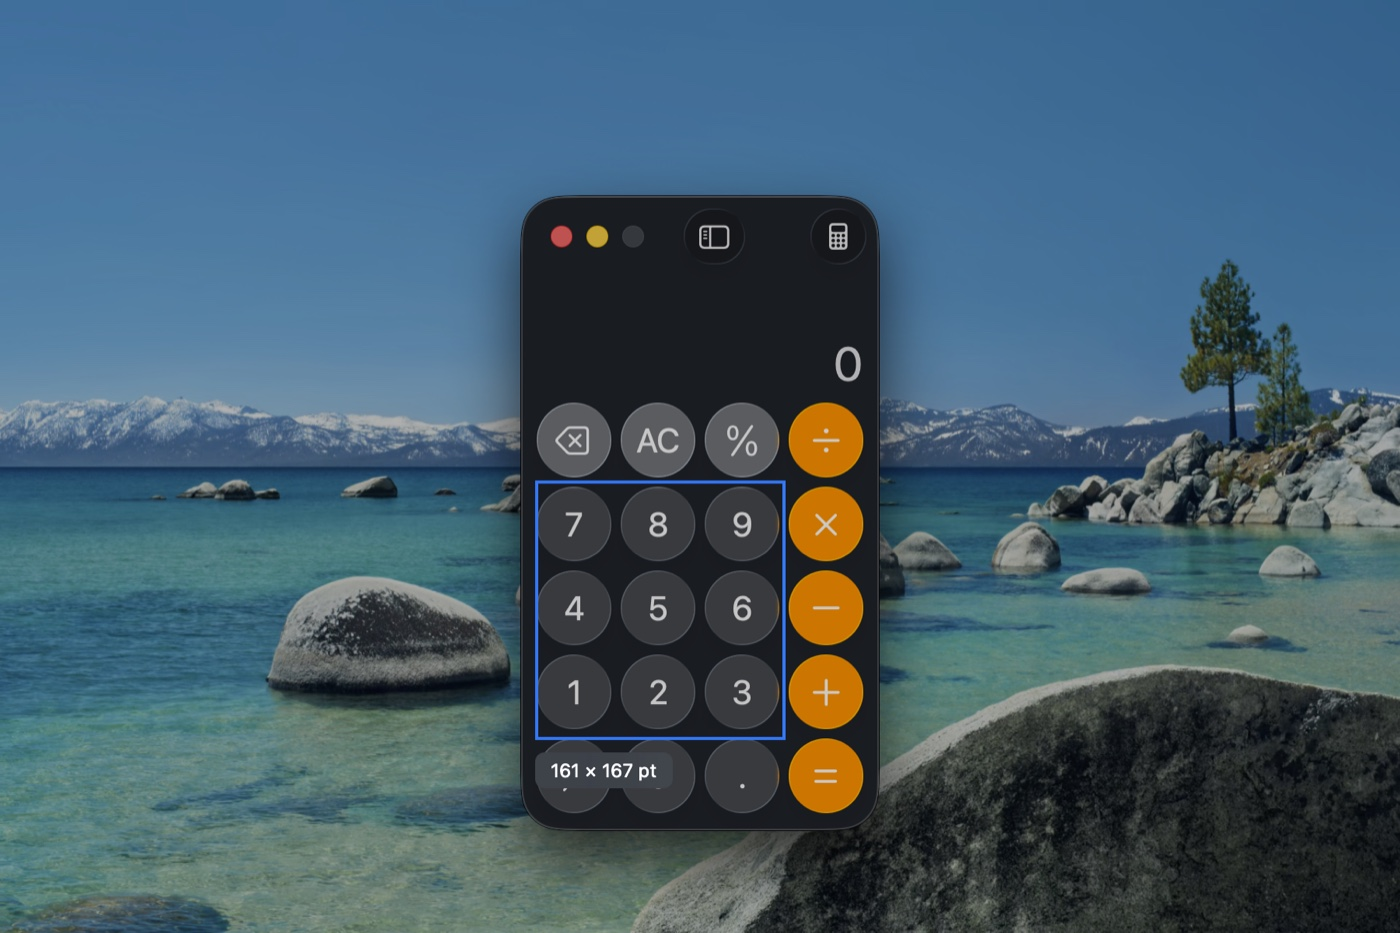
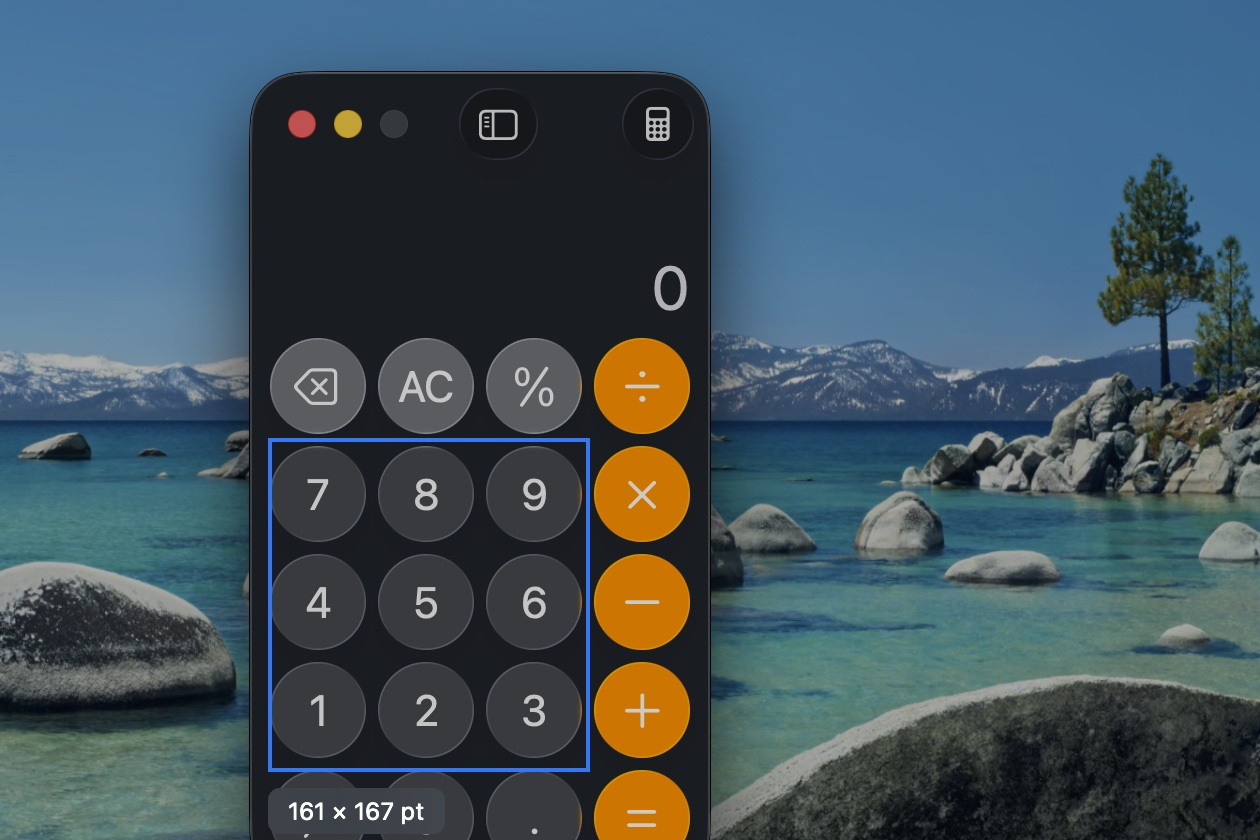
site: overlay frames cropped tighter; brand doc lists the captured assets

diff --git a/site/index.html b/site/index.html
@@ -452,19 +452,19 @@
     </div>
     <div class="frames">
       <div class="frame">
-        <div class="pic"><img src="assets/overlay-hover.jpg" width="1400" height="933" alt="The overlay over Calculator: the 8 key outlined in blue, with the label button · Eight beneath it"></div>
+        <div class="pic"><img src="assets/overlay-hover.jpg" width="1260" height="840" alt="The overlay over Calculator: the 8 key outlined in blue, with the label button · Eight beneath it"></div>
         <h3>Hover</h3><p>The element under the cursor and its identifier: <code>button · Eight</code>.</p>
       </div>
       <div class="frame">
-        <div class="pic"><img src="assets/overlay-option.jpg" width="1400" height="933" alt="With Option held, the whole keypad is outlined and the label reads group · CalculatorKeypadView"></div>
+        <div class="pic"><img src="assets/overlay-option.jpg" width="1260" height="840" alt="With Option held, the whole keypad is outlined and the label reads group · CalculatorKeypadView"></div>
         <h3>Option</h3><p>Steps to the parent: <code>group · CalculatorKeypadView</code>. Again for the next level.</p>
       </div>
       <div class="frame">
-        <div class="pic"><img src="assets/overlay-drag.jpg" width="1400" height="933" alt="A dragged frame around the number keys with a 161 by 167 point readout"></div>
+        <div class="pic"><img src="assets/overlay-drag.jpg" width="1260" height="840" alt="A dragged frame around the number keys with a 161 by 167 point readout"></div>
         <h3>Drag</h3><p>A frame, with every element inside it listed for the agent.</p>
       </div>
       <div class="frame">
-        <div class="pic"><img src="assets/overlay-note.jpg" width="1400" height="933" alt="After the click, a note field under the highlighted key reads make this key bigger, with Return to copy and Escape to cancel"></div>
+        <div class="pic"><img src="assets/overlay-note.jpg" width="1260" height="840" alt="After the click, a note field under the highlighted key reads make this key bigger, with Return to copy and Escape to cancel"></div>
         <h3>Note</h3><p>Click, say what should change, Return. Esc cancels, nothing written.</p>
       </div>
     </div>

diff --git a/docs/brand.md b/docs/brand.md
@@ -54,9 +54,10 @@ tracking. Scale: 60 / 40 / 21 / 17 / 15 / 13. Body 17 px at 1.5 line height in a
 cards; a card is used only where items repeat as a set (the four actions). Numbers appear only where the content is
 a real sequence: the three steps and the five rungs of the fallback ladder.
 
-**Illustrations.** The overlay moment is drawn in CSS from the app's tokens (`dim`, `highlight.stroke`, `label.bg`),
-not screenshotted, so it stays legible at any size and in both themes. The Settings window is a real capture.
-The hero video slot is marked in the HTML; the recording replaces the drawn stage when it exists.
+**Illustrations.** The hero stage is drawn in CSS from the app's tokens (`dim`, `highlight.stroke`, `label.bg`) and
+holds the slot for the demo video. Everything below it is a real capture: the overlay's four states over Calculator,
+the ball's four states, and the Settings window. Captures are staged over Apple's Tahoe Day wallpaper so they read
+as a Mac, not as one person's desktop.
 
 **Honesty.** Known limitations and the agent status table stay on the page. Statuses say "untested" until someone
 tests them.
@@ -69,6 +70,9 @@ tests them.
 | Site icon copies | `site/assets/icon-light.png`, `icon-dark.png` | 512, the page picks one per theme |
 | Favicons | `site/assets/favicon-32.png`, `favicon-64.png`, `apple-touch-icon.png` | same package, rendered at size |
 | Settings screenshot | `site/assets/settings-dark.png` | window capture with shadow, dark appearance |
+| Overlay frames | `site/assets/overlay-{hover,option,drag,note}.jpg` | real captures over Calculator on the Tahoe Day wallpaper, 3:2 |
+| Ball states | `site/assets/ball-{docked,awake,ready,ring}.png` | real captures over the same wallpaper, square |
+| Product glyphs | `site/assets/glyph-{snap,text,color,cut,hand}.png` | keyed out of the ring capture, tinted with the accent |
 | Demo video | `site/assets/demo.mp4` (to record) | 10 to 15 s: double-tap Control, click, note, paste into Claude Code |
 
 ## Not yet decided
